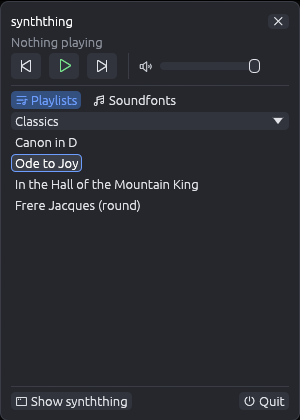
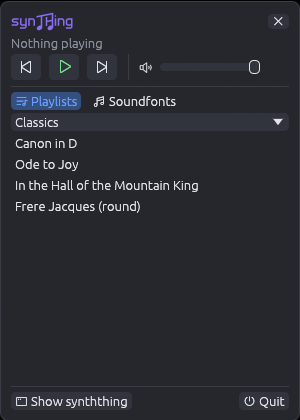
Tray panel: anchored at the cursor, sized for the UI scale, with the wordmark
The panel opened too far right and down (onto another monitor) and too
small with a UI scale over 100%: positions and sizes were worked out with
the monitor's scale but not the UI zoom egui applies on top. It now
anchors its bottom-right at the right-click, placing and sizing itself
from its own window's scale for a few frames as it settles on its
monitor. Its header is the wordmark; the first close's picture of it is
retaken.

Changed region(s): [[0.03, 0.031, 0.96, 0.5262], [0.9, 0.2786, 0.96, 0.3095]]

diff --git a/src/app/tray_panel.rs b/src/app/tray_panel.rs
@@ -69,6 +69,13 @@ enum Tab {
 #[derive(Default)]
 struct State {
     open: bool,
+    /// Where it's anchored (its bottom-right corner, in physical screen
+    /// pixels: the right-click), and how many more frames to place it
+    /// there for: its window only knows its scale (the monitor's, times the
+    /// UI scale) once it's on that monitor, so it's placed again as it
+    /// settles.
+    anchor: Option<([f32; 2], u8)>,
+    wordmark: super::branding::Wordmark,
     /// It's had focus since it was opened, so losing it closes it.
     focused_once: bool,
     tab: Tab,
@@ -109,20 +116,19 @@ impl TrayPanel {
         self.state.lock().is_ok_and(|s| s.open)
     }
 
-    /// Open it by the tray icon, which is at `icon` (x, y, width, height,
-    /// in physical screen pixels): above it, right-aligned with it, or
-    /// below it when the taskbar's at the top. `pixels_per_point`: the
-    /// screen's scale.
-    pub(super) fn open(&self, ctx: &egui::Context, icon: [f32; 4], pixels_per_point: f32) {
-        let [x, y, w, h] = icon.map(|v| v / pixels_per_point);
-        let left = (x + w - SIZE.x).max(0.0);
-        let top = if y - SIZE.y - 8.0 >= 0.0 { y - SIZE.y - 8.0 } else { y + h + 8.0 };
+    /// Open it with its bottom-right corner at `cursor` (physical screen
+    /// pixels: where the tray icon was right-clicked). `pixels_per_point`:
+    /// a first guess at the scale there (the main window's), for getting it
+    /// onto the right monitor; it places itself exactly once it's there.
+    pub(super) fn open(&self, ctx: &egui::Context, cursor: [f32; 2], pixels_per_point: f32) {
         if let Ok(mut state) = self.state.lock() {
             state.open = true;
             state.focused_once = false;
+            state.anchor = Some((cursor, PLACE_FRAMES));
         }
         let id = viewport_id();
-        ctx.send_viewport_cmd_to(id, egui::ViewportCommand::OuterPosition(egui::pos2(left, top)));
+        ctx.send_viewport_cmd_to(id, egui::ViewportCommand::OuterPosition(placement(cursor, pixels_per_point)));
+        ctx.send_viewport_cmd_to(id, egui::ViewportCommand::InnerSize(SIZE));
         ctx.send_viewport_cmd_to(id, egui::ViewportCommand::Visible(true));
         ctx.send_viewport_cmd_to(id, egui::ViewportCommand::Focus);
         ctx.request_repaint_of(id);
@@ -144,6 +150,18 @@ impl TrayPanel {
     }
 }
 
+/// Frames it places itself again for after opening (see `State::anchor`).
+const PLACE_FRAMES: u8 = 3;
+
+/// Where its top-left goes (in points, at `pixels_per_point`) for its
+/// bottom-right to be at `cursor` (physical pixels); below the cursor
+/// instead when there's no room above (a taskbar at the top).
+fn placement(cursor: [f32; 2], pixels_per_point: f32) -> egui::Pos2 {
+    let [x, y] = cursor.map(|v| v / pixels_per_point);
+    let top = if y - SIZE.y >= 0.0 { y - SIZE.y } else { y };
+    egui::pos2(x - SIZE.x, top)
+}
+
 /// Close the panel (it only hides).
 fn close(ctx: &egui::Context, state: &mut State) {
     state.open = false;
@@ -156,6 +174,13 @@ fn panel_ui(ui: &mut egui::Ui, state: &Mutex<State>, send: &Sender<Action>) {
         return;
     }
     let ctx = ui.ctx().clone();
+    if let Some((cursor, frames)) = state.anchor {
+        // Its own scale, now it's on its monitor (see `State::anchor`).
+        ctx.send_viewport_cmd(egui::ViewportCommand::OuterPosition(placement(cursor, ctx.pixels_per_point())));
+        ctx.send_viewport_cmd(egui::ViewportCommand::InnerSize(SIZE));
+        state.anchor = (frames > 1).then_some((cursor, frames - 1));
+        ctx.request_repaint();
+    }
     // Like a menu: gone once something else is clicked (it's had focus
     // first, so a slow first focus doesn't close it), or on Escape.
     match ctx.input(|i| i.viewport().focused) {
@@ -178,7 +203,11 @@ fn panel_ui(ui: &mut egui::Ui, state: &Mutex<State>, send: &Sender<Action>) {
 
         // What's playing, and the transport.
         ui.horizontal(|ui| {
-            ui.strong("synththing");
+            let height = ui.text_style_height(&egui::TextStyle::Button) * 1.25;
+            match state.wordmark.image(&ctx, height, ui.visuals().window_fill) {
+                Some(image) => ui.add(image),
+                None => ui.strong("synththing"),
+            };
             ui.with_layout(egui::Layout::right_to_left(egui::Align::Center), |ui| {
                 if ui.small_button(icon("x")).on_hover_text("Close (Esc)").clicked() {
                     close(&ctx, &mut state);

diff --git a/src/tray.rs b/src/tray.rs
@@ -12,9 +12,9 @@
 pub enum TrayClick {
     /// Left button: show synththing.
     Primary,
-    /// Right button: the tray panel, near `at` (the icon's rectangle, in
-    /// physical screen pixels: x, y, width, height).
-    Secondary { at: [f32; 4] },
+    /// Right button: the tray panel, by `cursor` (where the click was, in
+    /// physical screen pixels).
+    Secondary { cursor: [f32; 2] },
 }
 
 #[cfg(windows)]
@@ -47,10 +47,8 @@ mod imp {
                         TrayClick::Primary
                     }
                     TrayIconEvent::Click {
-                        button: MouseButton::Right, button_state: MouseButtonState::Up, rect, ..
-                    } => TrayClick::Secondary {
-                        at: [rect.position.x as f32, rect.position.y as f32, rect.size.width as f32, rect.size.height as f32],
-                    },
+                        button: MouseButton::Right, button_state: MouseButtonState::Up, position, ..
+                    } => TrayClick::Secondary { cursor: [position.x as f32, position.y as f32] },
                     _ => return,
                 };
                 let _ = sender.send(click);

diff --git a/src/app.rs b/src/app.rs
@@ -2256,10 +2256,10 @@ impl App {
         for click in tray.clicks() {
             match click {
                 crate::tray::TrayClick::Primary => self.show_window(ctx),
-                crate::tray::TrayClick::Secondary { at } => {
-                    let pixels_per_point = ctx.input(|i| i.viewport().native_pixels_per_point).unwrap_or(1.0);
+                crate::tray::TrayClick::Secondary { cursor } => {
+                    let native = ctx.input(|i| i.viewport().native_pixels_per_point).unwrap_or(1.0);
                     self.tray_panel.update(ctx, self.tray_snapshot(view));
-                    self.tray_panel.open(ctx, at, pixels_per_point);
+                    self.tray_panel.open(ctx, cursor, native * ctx.zoom_factor());
                 }
             }
         }
